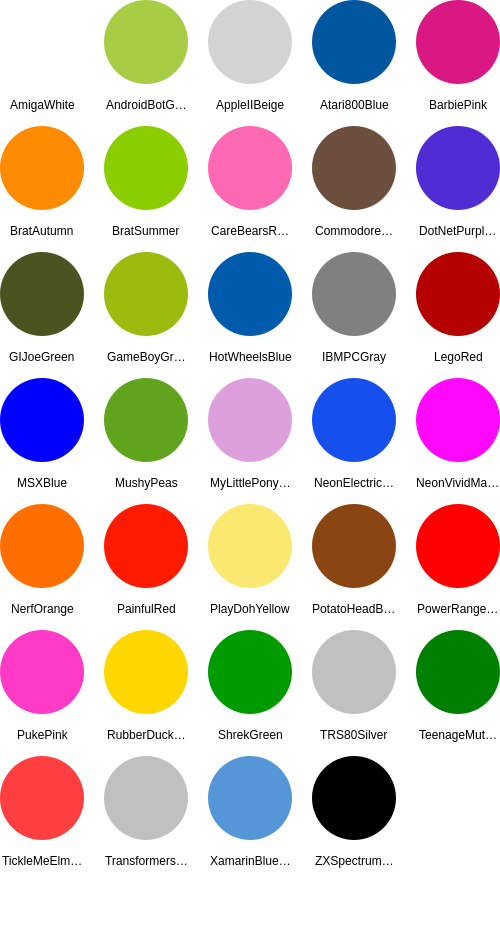
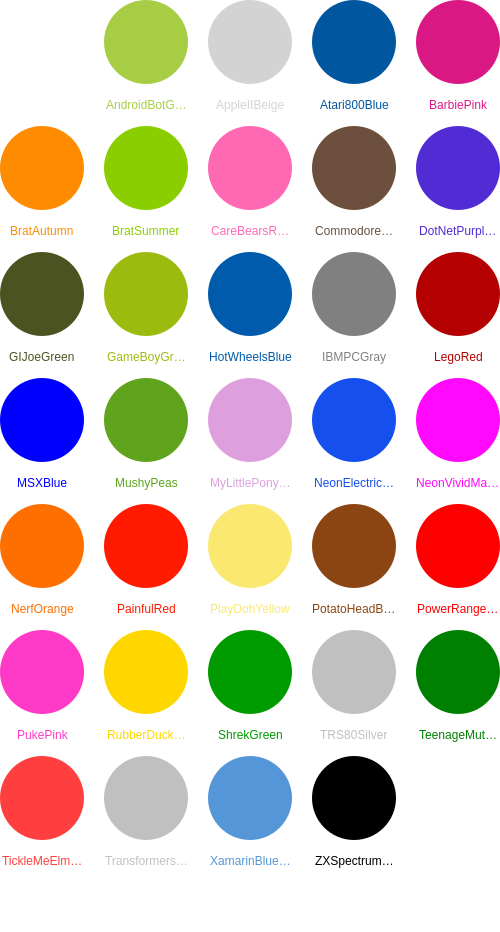
changing the text color to the color itself cause black doesn't show … (#8)
* changing the text color to the color itself cause black doesn't show up in dark mode :(

* Update color swatches

* Update generate-swatches.yml

* Update generate-swatches.yml to run on PRs and not throw up if no color was added

* Update generate-swatches.yml

run on prs

* Update .gitignore

* Update generate-swatches.yml

* Update generate-swatches.yml

* Update generate-swatches.yml

* Update generate-swatches.yml

* Update generate-swatches.yml

* Update generate-swatches.yml

* Update generate-swatches.yml

* Update generate-swatches.yml

* Update generate-swatches.yml

* Update generate-swatches.yml

---------

diff --git a/generate-swatches.js b/generate-swatches.js
@@ -79,7 +79,7 @@ function generateSwatches(hexColors, outputFile) {
         const truncatedName = truncateText(ctx, colorName, swatchDiameter);
 
         // Draw the truncated color name below the swatch
-        ctx.fillStyle = '#000';
+        ctx.fillStyle = colorHex;
         ctx.fillText(truncatedName, x, y + swatchRadius + 25);
     });
 
